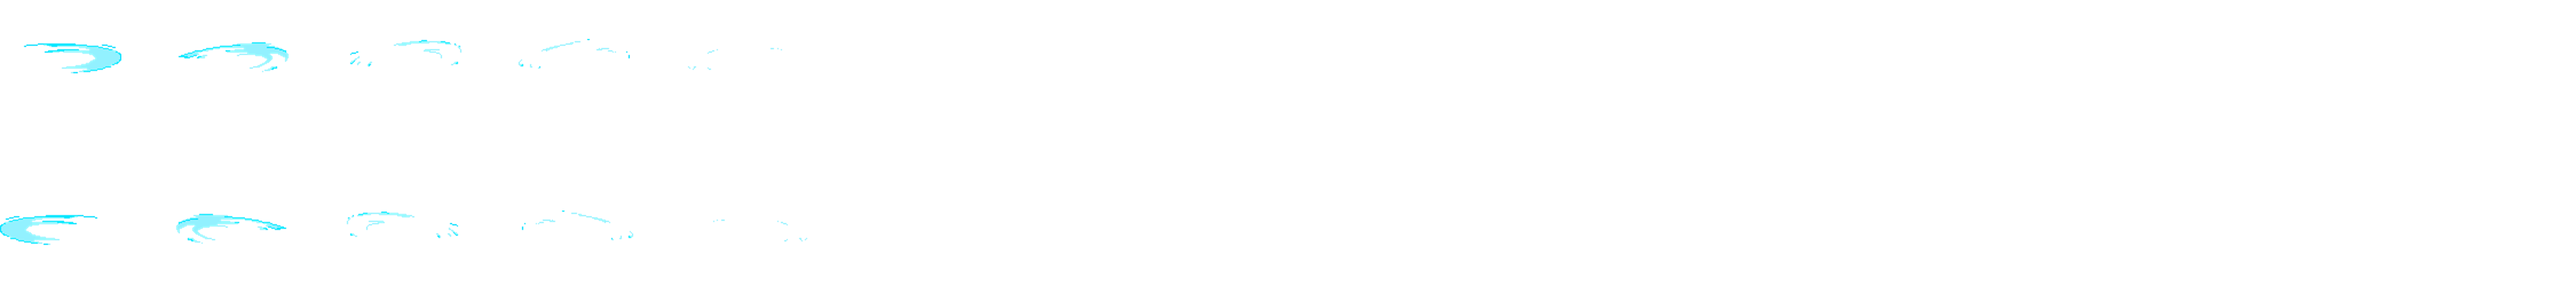
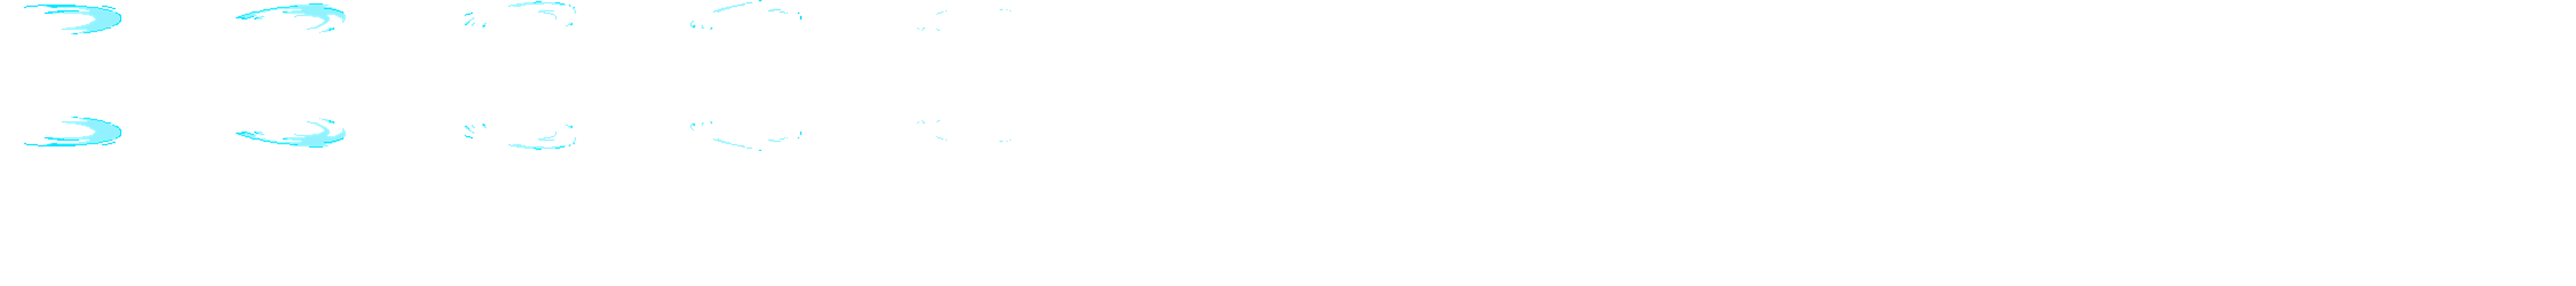
feat: Attack 구현

diff --git a/WinAPI/CKatanaSlash.cpp b/WinAPI/CKatanaSlash.cpp
@@ -8,7 +8,7 @@ CKatanaSlash::CKatanaSlash()
 	m_layer = Layer::Missile;
 	m_strName = L"KatanaSlash";
 	m_pTimer = 0;
-	m_fDegree = 90;
+	m_fDegree = 0;
 }
 
 CKatanaSlash::~CKatanaSlash()
@@ -26,8 +26,8 @@ void CKatanaSlash::Init()
 	m_pAnimator = new CAnimator;
 
 	
-	m_pAnimator->CreateAnimation(L"KatanaSlashRight", m_pImage, Vector(0.f, 0.f), Vector(300.f, 200.f), Vector(300.f, 0.f), 0.07f, 5,false);
-	m_pAnimator->CreateAnimation(L"KatanaSlashLeft", m_pImage, Vector(0.f, 300.f), Vector(300.f, 200.f), Vector(300.f, 0.f), 0.07f, 5,false);
+	m_pAnimator->CreateAnimation(L"KatanaSlashRight", m_pImage, Vector(0.f, 0.f), Vector(212.f, 64.f), Vector(400.f, 0.f), 0.07f, 5,false);
+	m_pAnimator->CreateAnimation(L"KatanaSlashLeft", m_pImage, Vector(0.f, 200.f), Vector(212.f, 64.f), Vector(400.f, 0.f), 0.07f, 5,false);
 	
 	
 	
@@ -42,6 +42,7 @@ void CKatanaSlash::Init()
 
 	AddComponent(m_pAnimator);
 	m_pTimer = 0.35f;
+	AddCollider(ColliderType::Rect, Vector(300, 200), Vector(0, 0));
 
 }
 

diff --git a/WinAPI/CPlayer.h b/WinAPI/CPlayer.h
@@ -78,7 +78,7 @@ private:
 	float AttackTimer;
 	float AfterAttackTimer;
 	bool RightAttack;
-	float AttackHeight;
+	float AttackAngle;
 	Vector AttackPos;
 
 private:

diff --git a/WinAPI/framework.h b/WinAPI/framework.h
@@ -25,6 +25,7 @@
 #include <cassert>
 #include <queue>
 #include <stack>
+#include <math.h>
 
 using namespace std;
 

diff --git a/WinAPI/CMissile.h b/WinAPI/CMissile.h
@@ -9,6 +9,7 @@ public:
 	CMissile();
 	virtual ~CMissile();
 
+	
 protected:
 	Vector m_vecDir;
 	float m_fVelocity;
